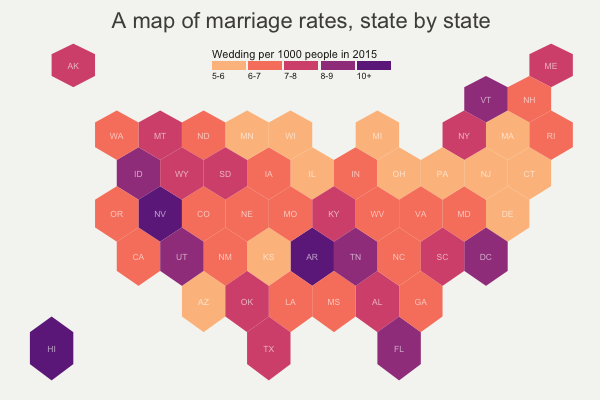
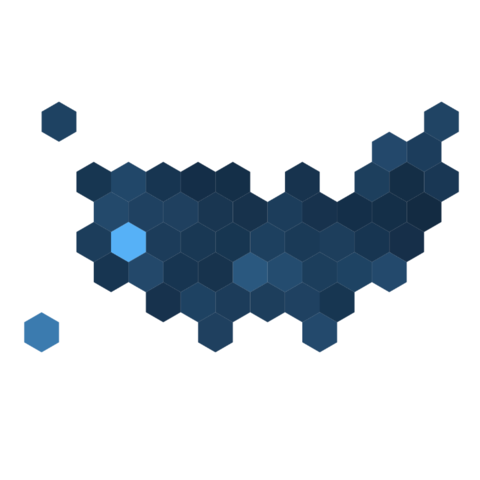
Hexbin map section OK

diff --git a/328-hexbin-map-of-the-usa.html b/328-hexbin-map-of-the-usa.html
@@ -197,13 +197,12 @@
 <a class="sourceLine" id="cb1-15" data-line-number="15"></a>
 <a class="sourceLine" id="cb1-16" data-line-number="16"><span class="co"># Show it</span></a>
 <a class="sourceLine" id="cb1-17" data-line-number="17"><span class="kw">plot</span>(spdf)</a></code></pre></div>
-<h1 id="ggplot-and-state-name"><code>ggplot</code> and state name</h1>
+<h1 id="ggplot2-and-state-name"><code>ggplot2</code> and state name</h1>
 <hr />
 <div class="row">
 <div class="col-md-6 col-sm-12 align-self-center">
-<p>The geospatial object has a <strong>data slot</strong>: an attached data frame that provides several information for each region. It is called <code>spdf@data</code> here.</p>
-<p>We need to add a new column to this data frame. This column will provide the population per state, available at <code>.csv</code> format <a href="https://www.r-graph-gallery.com/wp-content/uploads/2018/01/pop_US.csv">here</a>.</p>
-<p>We can thus use the <code>cartogram</code> library to distort the size of each state (=hexagon), proportionally to this column. The new geospatial object we get can be drawn with the same <code>plot</code> function.</p>
+<p>It is totally doable to plot this geospatial object using <code>ggplot2</code> and its <code>geom_polygon()</code> function, but we first need to <code>fortify</code> it using the <code>broom</code> package.</p>
+<p>Moreover, the <code>rgeos</code> package is used here to compute the centroid of each region thanks to the <code>gCentroid</code> function.</p>
 </div>
 <div class="col-md-6 col-sm-12">
 <p><img src="328-hexbin-map-of-the-usa_files/figure-html/thecode2-1.png" width="100%" /></p>
@@ -224,6 +223,82 @@
 <a class="sourceLine" id="cb2-13" data-line-number="13"><span class="st">  </span><span class="kw">geom_text</span>(<span class="dt">data=</span>centers, <span class="kw">aes</span>(<span class="dt">x=</span>x, <span class="dt">y=</span>y, <span class="dt">label=</span>id)) <span class="op">+</span></a>
 <a class="sourceLine" id="cb2-14" data-line-number="14"><span class="st">  </span><span class="kw">theme_void</span>() <span class="op">+</span></a>
 <a class="sourceLine" id="cb2-15" data-line-number="15"><span class="st">  </span><span class="kw">coord_map</span>()</a></code></pre></div>
+<h1 id="basic-choropleth">Basic choropleth</h1>
+<hr />
+<div class="row">
+<div class="col-md-6 col-sm-12 align-self-center">
+<p>Now you probably want to adjust the color of each hexagon, according to the value of a specific variable (we call it a <a href="chloropleth-map.html">choropleth map</a>).</p>
+<p>In this post I suggest to represent the number of wedding per thousand people. The data have been found <a href="https://www.cdc.gov/nchs/nvss/marriage-divorce.html">here</a>, and stored on a clean format <a href="https://raw.githubusercontent.com/holtzy/R-graph-gallery/master/DATA/State_mariage_rate.csv">here</a>.</p>
+<p>Let’s start by loading this information and represent its distribution:</p>
+</div>
+<div class="col-md-6 col-sm-12">
+<p><img src="328-hexbin-map-of-the-usa_files/figure-html/thecode3-1.png" width="100%" /></p>
+</div>
+</div>
+<div class="sourceCode" id="cb3"><pre class="sourceCode r"><code class="sourceCode r"><a class="sourceLine" id="cb3-1" data-line-number="1"><span class="co"># Load mariage data</span></a>
+<a class="sourceLine" id="cb3-2" data-line-number="2">data &lt;-<span class="st"> </span><span class="kw">read.table</span>(<span class="st">&quot;https://raw.githubusercontent.com/holtzy/R-graph-gallery/master/DATA/State_mariage_rate.csv&quot;</span>, <span class="dt">header=</span>T, <span class="dt">sep=</span><span class="st">&quot;,&quot;</span>, <span class="dt">na.strings=</span><span class="st">&quot;---&quot;</span>)</a>
+<a class="sourceLine" id="cb3-3" data-line-number="3"> </a>
+<a class="sourceLine" id="cb3-4" data-line-number="4"><span class="co"># Distribution of the marriage rate?</span></a>
+<a class="sourceLine" id="cb3-5" data-line-number="5">data <span class="op">%&gt;%</span><span class="st"> </span></a>
+<a class="sourceLine" id="cb3-6" data-line-number="6"><span class="st">  </span><span class="kw">ggplot</span>( <span class="kw">aes</span>(<span class="dt">x=</span>y_<span class="dv">2015</span>)) <span class="op">+</span><span class="st"> </span></a>
+<a class="sourceLine" id="cb3-7" data-line-number="7"><span class="st">    </span><span class="kw">geom_histogram</span>(<span class="dt">bins=</span><span class="dv">20</span>, <span class="dt">fill=</span><span class="st">&#39;#69b3a2&#39;</span>, <span class="dt">color=</span><span class="st">&#39;white&#39;</span>) <span class="op">+</span><span class="st"> </span></a>
+<a class="sourceLine" id="cb3-8" data-line-number="8"><span class="st">    </span><span class="kw">scale_x_continuous</span>(<span class="dt">breaks =</span> <span class="kw">seq</span>(<span class="dv">1</span>,<span class="dv">30</span>))</a></code></pre></div>
+<div class="row">
+<div class="col-md-6 col-sm-12 align-self-center">
+<p>Most of the state have between 5 and 10 weddings per 1000 inhabitants, but there are 2 outliers with high values (16 and 32).</p>
+<p>Let’s represent this information on a map. We have a column with the state id in both the geospatial and the numerical datasets. So we can merge both information and plot it.</p>
+<p>Note the use of the <code>trans = &quot;log&quot;</code> option in the color scale to decrease the effect of the 2 outliers.</p>
+</div>
+<div class="col-md-6 col-sm-12">
+<p><img src="328-hexbin-map-of-the-usa_files/figure-html/thecode4-1.png" width="100%" /></p>
+</div>
+</div>
+<div class="sourceCode" id="cb4"><pre class="sourceCode r"><code class="sourceCode r"><a class="sourceLine" id="cb4-1" data-line-number="1"><span class="co"># Merge geospatial and numerical information</span></a>
+<a class="sourceLine" id="cb4-2" data-line-number="2">spdf_fortified &lt;-<span class="st"> </span>spdf_fortified <span class="op">%&gt;%</span></a>
+<a class="sourceLine" id="cb4-3" data-line-number="3"><span class="st">  </span><span class="kw">left_join</span>(. , data, <span class="dt">by=</span><span class="kw">c</span>(<span class="st">&quot;id&quot;</span>=<span class="st">&quot;state&quot;</span>)) </a>
+<a class="sourceLine" id="cb4-4" data-line-number="4"> </a>
+<a class="sourceLine" id="cb4-5" data-line-number="5"><span class="co"># Make a first chloropleth map</span></a>
+<a class="sourceLine" id="cb4-6" data-line-number="6"><span class="kw">ggplot</span>() <span class="op">+</span></a>
+<a class="sourceLine" id="cb4-7" data-line-number="7"><span class="st">  </span><span class="kw">geom_polygon</span>(<span class="dt">data =</span> spdf_fortified, <span class="kw">aes</span>(<span class="dt">fill =</span>  y_<span class="dv">2015</span>, <span class="dt">x =</span> long, <span class="dt">y =</span> lat, <span class="dt">group =</span> group)) <span class="op">+</span></a>
+<a class="sourceLine" id="cb4-8" data-line-number="8"><span class="st">  </span><span class="kw">scale_fill_gradient</span>(<span class="dt">trans =</span> <span class="st">&quot;log&quot;</span>) <span class="op">+</span></a>
+<a class="sourceLine" id="cb4-9" data-line-number="9"><span class="st">  </span><span class="kw">theme_void</span>() <span class="op">+</span></a>
+<a class="sourceLine" id="cb4-10" data-line-number="10"><span class="st">  </span><span class="kw">coord_map</span>()</a></code></pre></div>
+<h1 id="customized-hexbin-choropleth-map">Customized hexbin choropleth map</h1>
+<hr />
+<p>Here is a final version after applying a few customization:</p>
+<ul>
+<li>Use handmade binning for the colorscale with <code>scale_fill_manual</code></li>
+<li>Use <code>viridis</code> for the color palette</li>
+<li>Add custom legend and title</li>
+<li>Change background color</li>
+</ul>
+<p><img src="328-hexbin-map-of-the-usa_files/figure-html/thecode5-1.png" width="80%" style="display: block; margin: auto;" /></p>
+<div class="sourceCode" id="cb5"><pre class="sourceCode r"><code class="sourceCode r"><a class="sourceLine" id="cb5-1" data-line-number="1"><span class="co"># Prepare binning</span></a>
+<a class="sourceLine" id="cb5-2" data-line-number="2">spdf_fortified<span class="op">$</span>bin &lt;-<span class="st"> </span><span class="kw">cut</span>( spdf_fortified<span class="op">$</span>y_<span class="dv">2015</span> , <span class="dt">breaks=</span><span class="kw">c</span>(<span class="kw">seq</span>(<span class="dv">5</span>,<span class="dv">10</span>), <span class="ot">Inf</span>), <span class="dt">labels=</span><span class="kw">c</span>(<span class="st">&quot;5-6&quot;</span>, <span class="st">&quot;6-7&quot;</span>, <span class="st">&quot;7-8&quot;</span>, <span class="st">&quot;8-9&quot;</span>, <span class="st">&quot;9-10&quot;</span>, <span class="st">&quot;10+&quot;</span> ), <span class="dt">include.lowest =</span> <span class="ot">TRUE</span> )</a>
+<a class="sourceLine" id="cb5-3" data-line-number="3"> </a>
+<a class="sourceLine" id="cb5-4" data-line-number="4"><span class="co"># Prepare a color scale coming from the viridis color palette</span></a>
+<a class="sourceLine" id="cb5-5" data-line-number="5"><span class="kw">library</span>(viridis)</a>
+<a class="sourceLine" id="cb5-6" data-line-number="6">my_palette &lt;-<span class="st"> </span><span class="kw">rev</span>(<span class="kw">magma</span>(<span class="dv">8</span>))[<span class="kw">c</span>(<span class="op">-</span><span class="dv">1</span>,<span class="op">-</span><span class="dv">8</span>)]</a>
+<a class="sourceLine" id="cb5-7" data-line-number="7"> </a>
+<a class="sourceLine" id="cb5-8" data-line-number="8"><span class="co"># plot</span></a>
+<a class="sourceLine" id="cb5-9" data-line-number="9"><span class="kw">ggplot</span>() <span class="op">+</span></a>
+<a class="sourceLine" id="cb5-10" data-line-number="10"><span class="st">  </span><span class="kw">geom_polygon</span>(<span class="dt">data =</span> spdf_fortified, <span class="kw">aes</span>(<span class="dt">fill =</span> bin, <span class="dt">x =</span> long, <span class="dt">y =</span> lat, <span class="dt">group =</span> group) , <span class="dt">size=</span><span class="dv">0</span>, <span class="dt">alpha=</span><span class="fl">0.9</span>) <span class="op">+</span></a>
+<a class="sourceLine" id="cb5-11" data-line-number="11"><span class="st">  </span><span class="kw">geom_text</span>(<span class="dt">data=</span>centers, <span class="kw">aes</span>(<span class="dt">x=</span>x, <span class="dt">y=</span>y, <span class="dt">label=</span>id), <span class="dt">color=</span><span class="st">&quot;white&quot;</span>, <span class="dt">size=</span><span class="dv">3</span>, <span class="dt">alpha=</span><span class="fl">0.6</span>) <span class="op">+</span></a>
+<a class="sourceLine" id="cb5-12" data-line-number="12"><span class="st">  </span><span class="kw">theme_void</span>() <span class="op">+</span></a>
+<a class="sourceLine" id="cb5-13" data-line-number="13"><span class="st">  </span><span class="kw">scale_fill_manual</span>( </a>
+<a class="sourceLine" id="cb5-14" data-line-number="14">    <span class="dt">values=</span>my_palette, </a>
+<a class="sourceLine" id="cb5-15" data-line-number="15">    <span class="dt">name=</span><span class="st">&quot;Wedding per 1000 people in 2015&quot;</span>, </a>
+<a class="sourceLine" id="cb5-16" data-line-number="16">    <span class="dt">guide =</span> <span class="kw">guide_legend</span>( <span class="dt">keyheight =</span> <span class="kw">unit</span>(<span class="dv">3</span>, <span class="dt">units =</span> <span class="st">&quot;mm&quot;</span>), <span class="dt">keywidth=</span><span class="kw">unit</span>(<span class="dv">12</span>, <span class="dt">units =</span> <span class="st">&quot;mm&quot;</span>), <span class="dt">label.position =</span> <span class="st">&quot;bottom&quot;</span>, <span class="dt">title.position =</span> <span class="st">&#39;top&#39;</span>, <span class="dt">nrow=</span><span class="dv">1</span>) </a>
+<a class="sourceLine" id="cb5-17" data-line-number="17">  ) <span class="op">+</span></a>
+<a class="sourceLine" id="cb5-18" data-line-number="18"><span class="st">  </span><span class="kw">ggtitle</span>( <span class="st">&quot;A map of marriage rates, state by state&quot;</span> ) <span class="op">+</span></a>
+<a class="sourceLine" id="cb5-19" data-line-number="19"><span class="st">  </span><span class="kw">theme</span>(</a>
+<a class="sourceLine" id="cb5-20" data-line-number="20">    <span class="dt">legend.position =</span> <span class="kw">c</span>(<span class="fl">0.5</span>, <span class="fl">0.9</span>),</a>
+<a class="sourceLine" id="cb5-21" data-line-number="21">    <span class="dt">text =</span> <span class="kw">element_text</span>(<span class="dt">color =</span> <span class="st">&quot;#22211d&quot;</span>),</a>
+<a class="sourceLine" id="cb5-22" data-line-number="22">    <span class="dt">plot.background =</span> <span class="kw">element_rect</span>(<span class="dt">fill =</span> <span class="st">&quot;#f5f5f2&quot;</span>, <span class="dt">color =</span> <span class="ot">NA</span>), </a>
+<a class="sourceLine" id="cb5-23" data-line-number="23">    <span class="dt">panel.background =</span> <span class="kw">element_rect</span>(<span class="dt">fill =</span> <span class="st">&quot;#f5f5f2&quot;</span>, <span class="dt">color =</span> <span class="ot">NA</span>), </a>
+<a class="sourceLine" id="cb5-24" data-line-number="24">    <span class="dt">legend.background =</span> <span class="kw">element_rect</span>(<span class="dt">fill =</span> <span class="st">&quot;#f5f5f2&quot;</span>, <span class="dt">color =</span> <span class="ot">NA</span>),</a>
+<a class="sourceLine" id="cb5-25" data-line-number="25">    <span class="dt">plot.title =</span> <span class="kw">element_text</span>(<span class="dt">size=</span> <span class="dv">22</span>, <span class="dt">hjust=</span><span class="fl">0.5</span>, <span class="dt">color =</span> <span class="st">&quot;#4e4d47&quot;</span>, <span class="dt">margin =</span> <span class="kw">margin</span>(<span class="dt">b =</span> <span class="fl">-0.1</span>, <span class="dt">t =</span> <span class="fl">0.4</span>, <span class="dt">l =</span> <span class="dv">2</span>, <span class="dt">unit =</span> <span class="st">&quot;cm&quot;</span>)),</a>
+<a class="sourceLine" id="cb5-26" data-line-number="26">  )</a></code></pre></div>
 <!-- Close container -->
 </div>
 <!-- ============================ RELATED SECTION ============================ -->

diff --git a/hexbin-map.html b/hexbin-map.html
@@ -153,16 +153,30 @@ $(function(){
           <img class="img-fluid imgOfPortfolio" src="img/graph/328-hexbin-map-of-the-usa2.png" alt="">
         </a>
       </div>
-      <div class="col-md-12 col-sm-12 portfolio-item">
+      <div class="col-md-4 col-sm-6 portfolio-item">
         <a class="portfolio-link" href="328-hexbin-map-of-the-usa.html">
           <div class="portfolio-hover">
             <div class="portfolio-hover-content">
-              <p>Choropleth</p>
+              <p>Basic Choropleth</p>
               <hr>
               <p class="explanation_portfolio">Color each hexagone with a color that represents a numeric value. It's a hexbin choropleth map.</p>
             </div>
           </div>
           <img class="img-fluid imgOfPortfolio" src="img/graph/328-hexbin-map-of-the-usa3.png" alt="">
+        </a>
+      </div>
+    </div>
+    <div id="portfolio-items" class="row justify-content-center">
+      <div class="portfolio-item" >
+        <a class="portfolio-link" href="328-hexbin-map-of-the-usa.html">
+          <div class="portfolio-hover">
+            <div class="portfolio-hover-content">
+              <p>Customize Choropleth</p>
+              <hr>
+              <p class="explanation_portfolio">A custom hexbin choropleth map with background, title, legend, binning for color scale and more.</p>
+            </div>
+          </div>
+          <img class="img-fluid imgOfPortfolio" src="img/graph/328-hexbin-map-of-the-usa4.png" alt="">
         </a>
       </div>
     </div>

diff --git a/index.html b/index.html
@@ -275,7 +275,7 @@ $(function(){
         <div class="captionPortfolio">Barplot</div>
       </div>
       <div class="col-md-2 col-sm-4 portfolio-item ">
-        <a class="portfolio-link"  href="spider.html">
+        <a class="portfolio-link"  href="spider-or-radar-chart.html">
           <div class="portfolio-hover">
             <div class="portfolio-hover-content">
               <i class="fa fa-plus fa-3x"></i>
@@ -319,7 +319,7 @@ $(function(){
         <div class="captionPortfolio">Lollipop</div>
       </div>
       <div class="col-md-2 col-sm-4 portfolio-item ">
-        <a class="portfolio-link" href="circular_barplot.html">
+        <a class="portfolio-link" href="circular-barplot.html">
           <div class="portfolio-hover">
             <div class="portfolio-hover-content">
               <i class="fa fa-plus fa-3x"></i>
